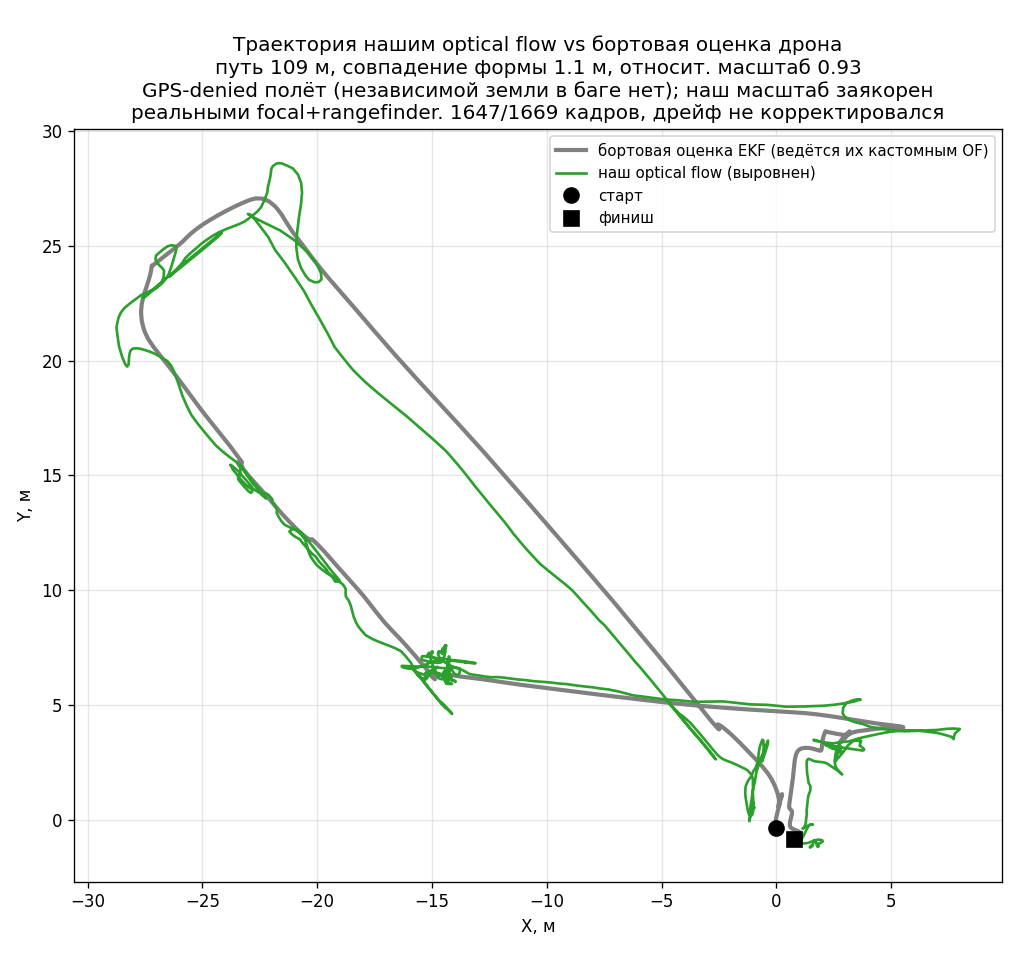
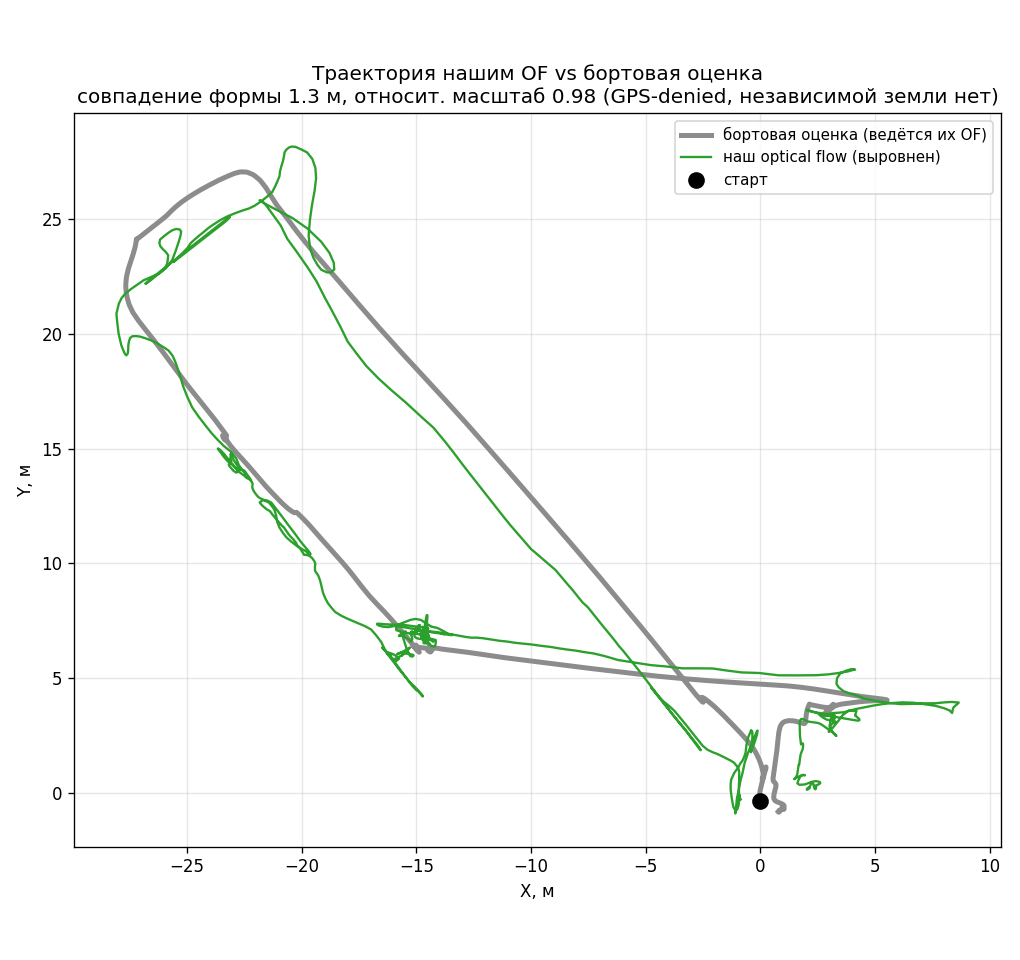
Formalize rosbag pipeline + cache bag flight data
src/rosbag_path.py: парсит mcap-баг в кэш один раз, дальше гоняет наш flow из
кэша (не перечитывая 1.16 ГБ). Строит траекторию, Procrustes к бортовой оценке,
рисует. Кэш data/bag_flight/bag_cache.npz (10 МБ: 1669 кадров 96x96 + rangefinder
+ imu + эталонные позы).

Прогон полного набора (median+pyramid+boundary): valid 1618/1669, resid 1.31 м,
масштаб 0.977 (метрика ещё точнее с починенной пирамидой). FINDINGS TODO обновлён.

diff --git a/src/rosbag_path.py b/src/rosbag_path.py
@@ -1,0 +1,139 @@
+r"""
+rosbag_path.py — прогон нашего optical flow на реальном полёте из rosbag (mcap).
+
+Один раз парсит баг в кэш (data/bag_flight/bag_cache.npz), дальше гоняет алгоритм
+из кэша (не перечитывая 1.16 ГБ). Строит траекторию, сверяет с бортовой оценкой
+через Procrustes, рисует в results/.
+
+Использование:
+    python3 src/rosbag_path.py                      # из кэша (быстро)
+    python3 src/rosbag_path.py /path/to/rosbag_dir  # перепарсить баг в кэш
+
+Топики (downward VO-камера + телеметрия):
+    /odometry/image/compressed  640x480 JPEG  -> flow
+    /odometry/rangefinder       высота (масштаб)
+    /mavros/imu/data            гиро + ориентация (yaw)
+    /mavros/local_position/pose эталон (в этом баге ведётся их OF -> кросс-валидация)
+
+ВАЖНО: в исходном баге НЕ было независимого GPS (кастомный OF инжектится как GPS),
+поэтому сверка с local_position — это кросс-валидация двух OF по форме, а не сверка
+с землёй. Масштаб нашего пути заякорен реально (calib focal + rangefinder). См.
+docs/FINDINGS.md §3.
+"""
+import sys
+from functools import partial
+
+import numpy as np
+
+sys.path.insert(0, str(__import__("pathlib").Path(__file__).resolve().parent))
+from px4flow_improved import compute_flow_improved as C
+from _paths import DATA, RESULTS
+
+CACHE = DATA / "bag_flight" / "bag_cache.npz"
+FOCAL_FULL = 551.8          # fx из /cam_usb/camera_info на 640 px
+IMG_TOPICS = ["/odometry/image/compressed", "/odometry/rangefinder",
+              "/mavros/imu/data", "/odometry/pose", "/mavros/local_position/pose"]
+
+
+def extract(bag_dir, W=96):
+    """Парсит mcap-баг в кэш. Требует mcap + mcap_ros2 (без установки ROS)."""
+    import glob
+    import cv2
+    from mcap.reader import make_reader
+    from mcap_ros2.decoder import DecoderFactory
+    path = glob.glob(f"{bag_dir}/*.mcap")[0]
+
+    def crop_resize(g):
+        return cv2.resize(g[:, 80:560], (W, W))
+
+    def yaw_q(x, y, z, w):
+        return np.arctan2(2 * (w * z + x * y), 1 - 2 * (y * y + z * z))
+
+    d = {k: [] for k in ("img_t", "imgs", "rf_t", "rf_h", "imu_t", "gyro",
+                         "yaw", "ref_t", "ref_xy", "lp_t", "lp_xy")}
+    with open(path, "rb") as f:
+        reader = make_reader(f, decoder_factories=[DecoderFactory()])
+        for schema, chan, msg, ros in reader.iter_decoded_messages(topics=IMG_TOPICS):
+            tp, ts = chan.topic, msg.log_time * 1e-9
+            if tp == "/odometry/image/compressed":
+                g = cv2.imdecode(np.frombuffer(bytes(ros.data), np.uint8), cv2.IMREAD_GRAYSCALE)
+                if g is not None and g.shape == (480, 640):
+                    d["img_t"].append(ts); d["imgs"].append(crop_resize(g))
+            elif tp == "/odometry/rangefinder":
+                d["rf_t"].append(ts); d["rf_h"].append(ros.range)
+            elif tp == "/mavros/imu/data":
+                g = ros.angular_velocity; q = ros.orientation
+                d["imu_t"].append(ts); d["gyro"].append((g.x, g.y, g.z))
+                d["yaw"].append(yaw_q(q.x, q.y, q.z, q.w))
+            elif tp == "/odometry/pose":
+                p = ros.pose.position; d["ref_t"].append(ts); d["ref_xy"].append((p.x, p.y))
+            elif tp == "/mavros/local_position/pose":
+                p = ros.pose.position; d["lp_t"].append(ts); d["lp_xy"].append((p.x, p.y))
+    CACHE.parent.mkdir(parents=True, exist_ok=True)
+    np.savez_compressed(CACHE, W=W, **{k: np.array(v) for k, v in d.items()})
+    print(f"кэш сохранён -> {CACHE}  ({len(d['imgs'])} кадров)")
+
+
+def _procrustes(P, Q):
+    Pm, Qm = P - P.mean(0), Q - Q.mean(0)
+    U, S, Vt = np.linalg.svd(Pm.T @ Qm); R = (U @ Vt).T
+    s = S.sum() / max((Pm ** 2).sum(), 1e-9)
+    A = s * (Pm @ R.T) + Q.mean(0)
+    return s, float(np.sqrt(np.mean(np.sum((A - Q) ** 2, 1)))), A
+
+
+def build_trajectory(ref="lp"):
+    """Гоняет наш flow по кадрам, строит путь, выравнивает к эталону."""
+    d = np.load(CACHE)
+    W = int(d["W"]); focal = FOCAL_FULL * W / 480.0
+    imgs, it = d["imgs"], d["img_t"]
+    h = np.interp(it, d["rf_t"], d["rf_h"])
+    yaw = np.interp(it, d["imu_t"], np.unwrap(d["yaw"]))
+    rt, rxy = (d["lp_t"], d["lp_xy"]) if ref == "lp" else (d["ref_t"], d["ref_xy"])
+    Q = np.column_stack([np.interp(it, rt, rxy[:, 0]), np.interp(it, rt, rxy[:, 1])])
+
+    flow = partial(C, use_median=True, use_pyramid=True, use_boundary_reject=True)
+    N = len(imgs); wx = np.zeros(N); wy = np.zeros(N); nvalid = 0
+    for i in range(1, N):
+        dt = it[i] - it[i - 1]
+        if dt <= 0 or dt > 1.0 or h[i] < 0.3:
+            continue
+        q, fx, fy = flow(imgs[i - 1], imgs[i])
+        if q == 0:
+            continue
+        nvalid += 1
+        dX = fx / focal * h[i]; dY = fy / focal * h[i]     # метры на земле
+        c, s = np.cos(-yaw[i]), np.sin(-yaw[i])            # поворот в мировой кадр
+        wx[i] = c * dX - s * dY; wy[i] = s * dX + c * dY
+    P = np.column_stack([np.cumsum(wx), np.cumsum(wy)])
+    scale, resid, A = _procrustes(P, Q)
+    print(f"валидных кадров: {nvalid}/{N}")
+    print(f"vs {ref}: resid={resid:.2f} м, масштаб={scale:.3f}, путь эталона="
+          f"{np.sum(np.hypot(*np.diff(Q, axis=0).T)):.0f} м")
+    return A, Q, resid, scale
+
+
+def plot(A, Q, resid, scale, out=None):
+    import matplotlib
+    matplotlib.use("Agg"); import matplotlib.pyplot as plt
+    out = out or (RESULTS / "bag_trajectory.png")
+    fig, ax = plt.subplots(figsize=(8.5, 8))
+    ax.plot(Q[:, 0], Q[:, 1], '-', color='0.55', lw=3, label='бортовая оценка (ведётся их OF)')
+    ax.plot(A[:, 0], A[:, 1], '-', color='tab:green', lw=1.4, label='наш optical flow (выровнен)')
+    ax.plot(Q[0, 0], Q[0, 1], 'ko', ms=9, label='старт')
+    ax.set_aspect('equal'); ax.grid(alpha=0.3); ax.legend(fontsize=9)
+    ax.set_xlabel('X, м'); ax.set_ylabel('Y, м')
+    ax.set_title(f'Траектория нашим OF vs бортовая оценка\n'
+                 f'совпадение формы {resid:.1f} м, относит. масштаб {scale:.2f} '
+                 f'(GPS-denied, независимой земли нет)')
+    fig.tight_layout(); fig.savefig(out, dpi=120)
+    print(f"график -> {out}")
+
+
+if __name__ == "__main__":
+    if len(sys.argv) > 1:
+        extract(sys.argv[1])
+    if not CACHE.exists():
+        sys.exit("нет кэша: запусти с путём к багу — python3 src/rosbag_path.py <bag_dir>")
+    A, Q, resid, scale = build_trajectory("lp")
+    plot(A, Q, resid, scale)

diff --git a/docs/FINDINGS.md b/docs/FINDINGS.md
@@ -171,5 +171,7 @@
   на ПК честно не оттестировать.
 
 **Формализация:**
-- Пайплайн разбора rosbag сейчас в scratchpad (не в репо). Оформить в `src/rosbag_path.py`
-  (аргумент — путь к багу, топик-эталон) для прогонов на других записях.
+- ✅ Пайплайн разбора rosbag оформлен: `src/rosbag_path.py` (парсит баг в кэш
+  `data/bag_flight/bag_cache.npz` один раз, дальше гоняет из кэша). Прогон из кэша:
+  valid 1618/1669, resid 1.31 м, масштаб 0.977 vs бортовая оценка.
+- Для прогонов на других записях: `python3 src/rosbag_path.py <путь_к_багу>` (перепарсит).